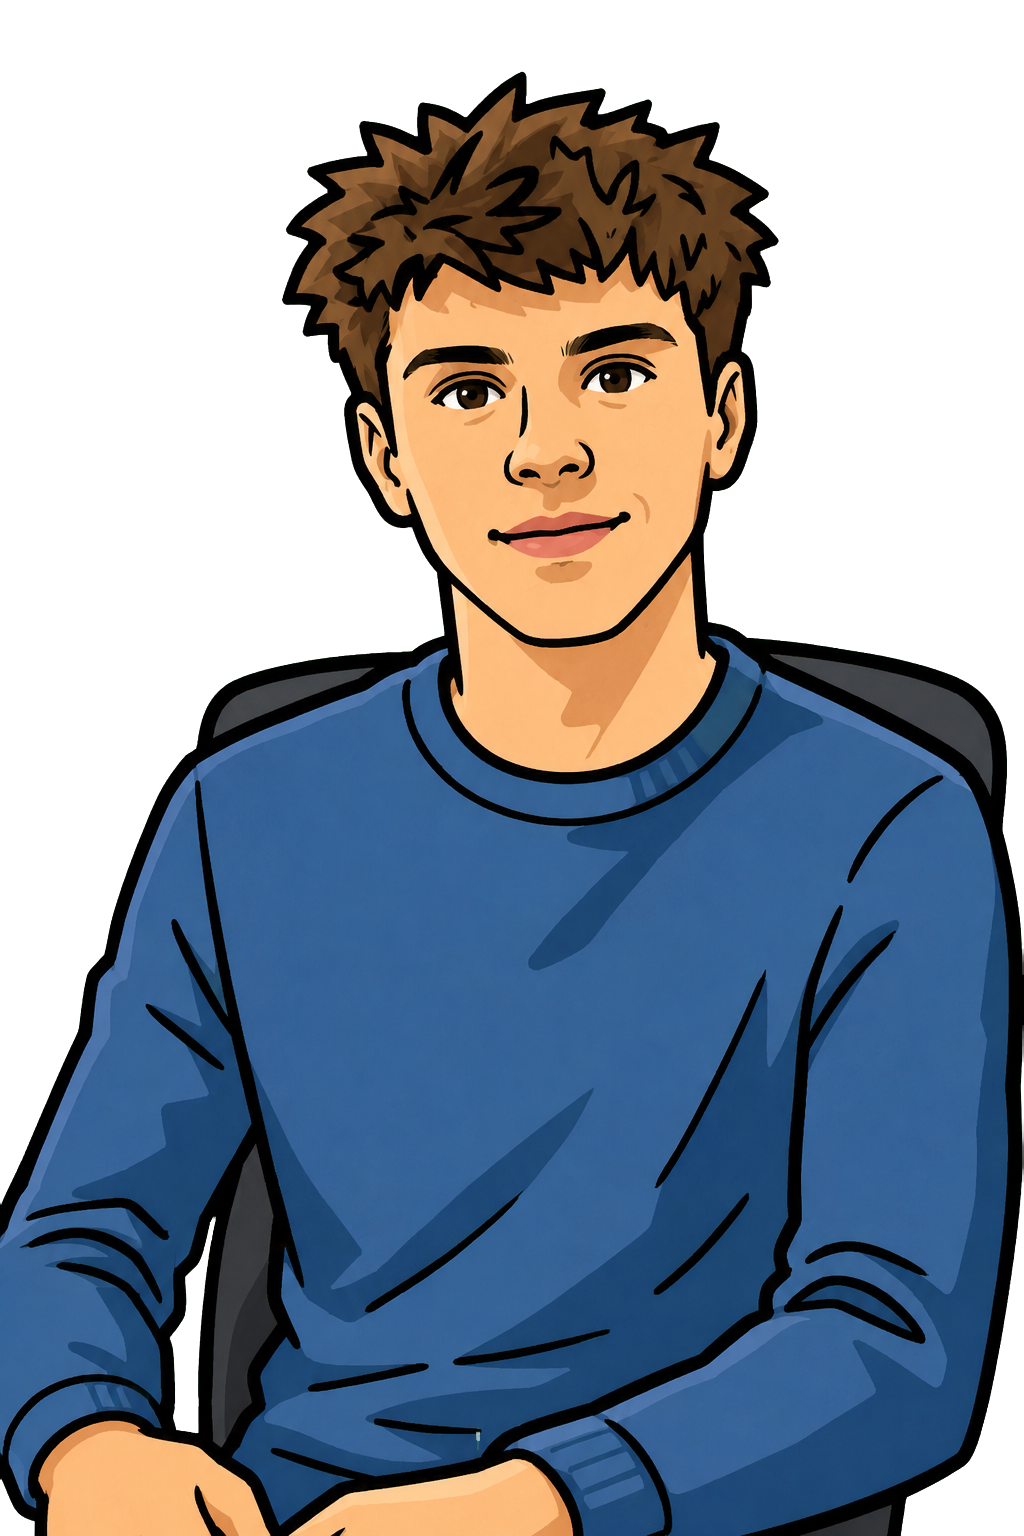
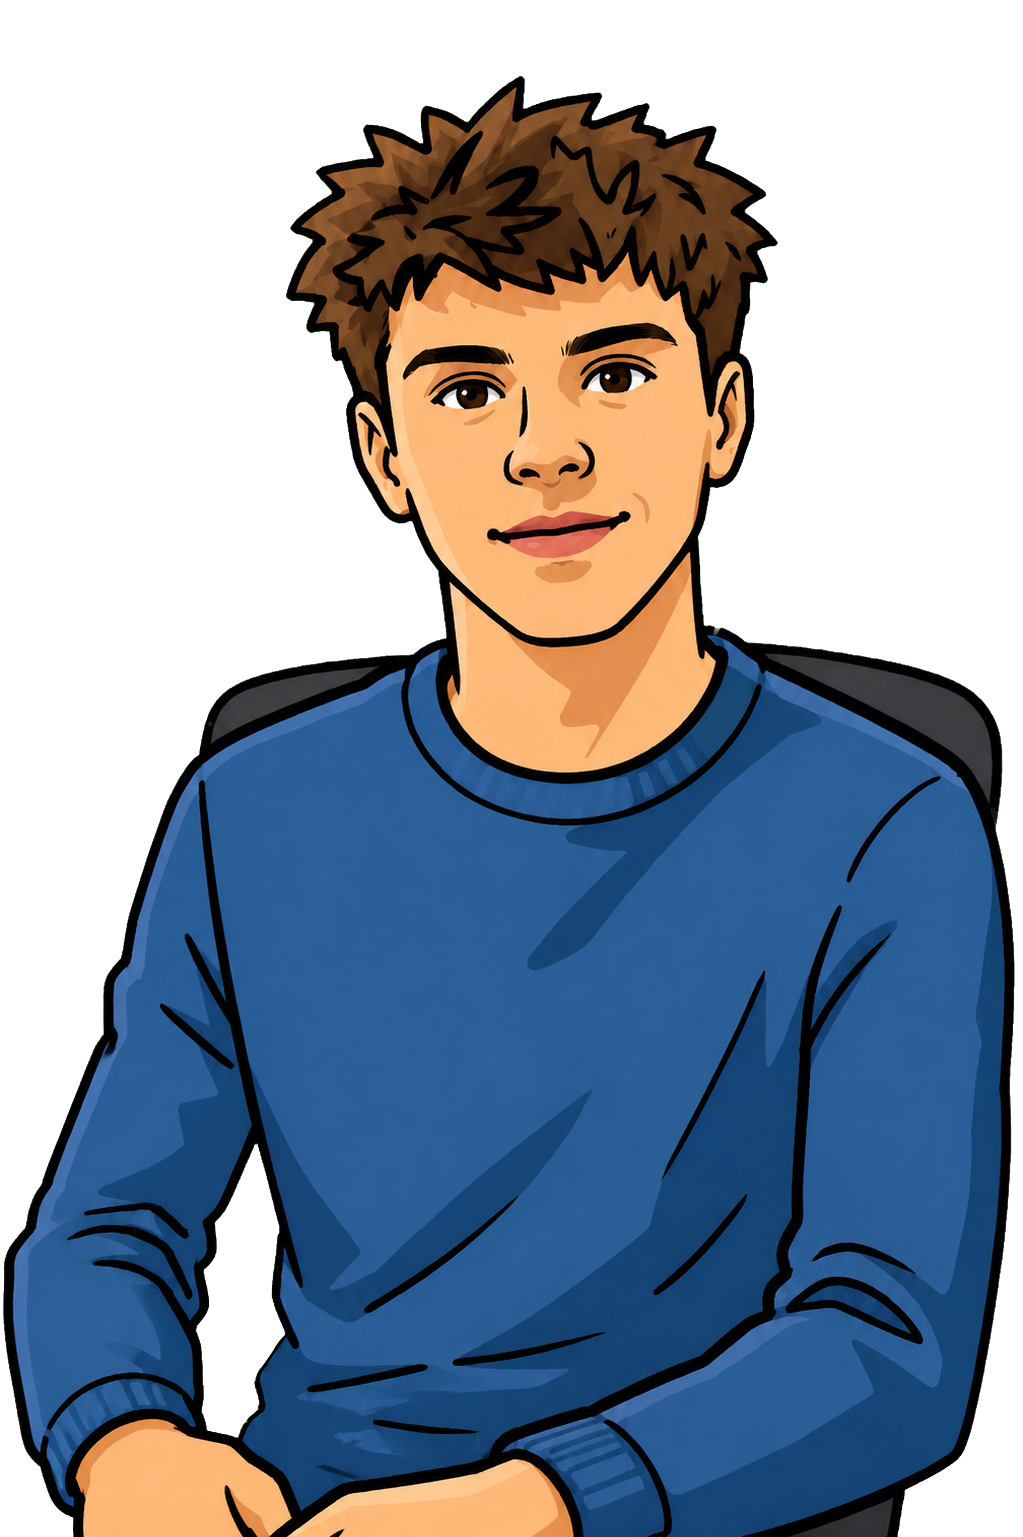
Replace figure asset, re-fit aaron and laptop placement

diff --git a/src/config/scene.ts b/src/config/scene.ts
@@ -85,10 +85,22 @@ export const SCENE_LAYERS: ReadonlyArray<SceneLayer> = [
 		placeholderColor: "#64748b",
 	},
 	{
+		/**
+		 * Aspect-locked to the 1023x1537 asset (2*width/height == 0.66558),
+		 * then pinned by three things: centered on 0.500, head top at 0.1366,
+		 * and — because the figure is cropped flat at the image's bottom edge
+		 * — a crop line at 0.6618 that clears the desk's back edge by 8.9 CSS
+		 * px at a 1440 viewport, measured at alpha 250 so the desk's own
+		 * anti-aliased top row is not counted as cover. Width comes from
+		 * preserving the previous asset's rendered body width (0.1817) across
+		 * the new art's 1.3% transparent side margin. Re-derive all four
+		 * numbers from the image if the art is replaced again; do not carry a
+		 * width/height pair over from a different asset.
+		 */
 		kind: "decorative",
 		id: "aaron",
 		image: "/images/aaron.webp",
-		box: { x: 0.4092, y: 0.1148, width: 0.1817, height: 0.5451 },
+		box: { x: 0.408, y: 0.1089, width: 0.184, height: 0.5529 },
 		zIndex: 5,
 		placeholderColor: "#ec4899",
 	},
